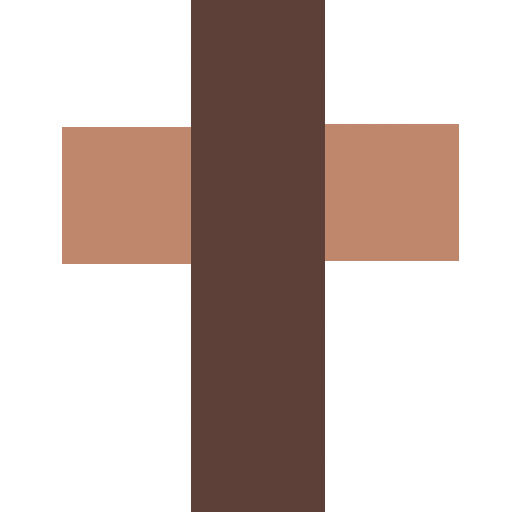
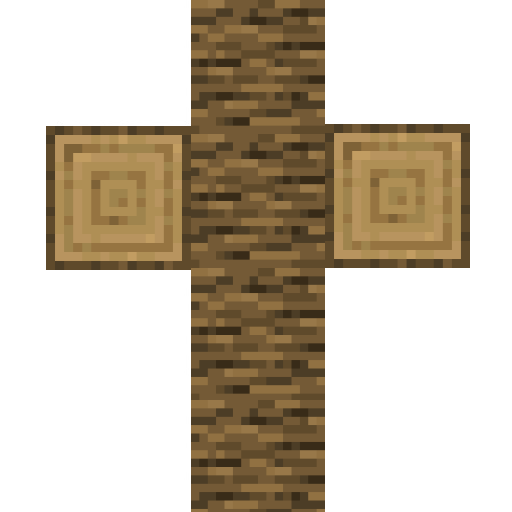
1.13 Texture Updated

Changed region(s): [[0.0625, 0.0, 0.9375, 1.0]]

diff --git a/main.py b/main.py
@@ -8,14 +8,14 @@ from ursina.shaders import lit_with_shadows_shader
 app = Ursina()
 
 sky = load_texture("block images/sky.png")
-dirt = load_texture("block images/dirt.png")
-sand = load_texture("block images/sand.png")
-stone = load_texture("block images/stone.png")
+dirt = load_texture("assets/dirtblock.png")
+sand = load_texture("assets/sand.png")
+stone = load_texture("assets/stone.png")
 grassblock = load_texture("assets/grassblock.png")
 log = load_texture("assets/log.png")
 planks = load_texture("assets/planks.png")
 arm = load_texture("assets/alt.png")
-ice = load_texture("block images/ice.png")
+cobble = load_texture("assets/cobbler.png")
 punch_sound   = Audio('assets/punch_sound',loop = False, autoplay = False)
 block_pick = 1
 
@@ -57,12 +57,12 @@ class Voxel(Button):
 			if key == 'right mouse down':
 				punch_sound.play()
 				if block_pick == 1: voxel = Voxel(position = self.position + mouse.normal, texture = grassblock)
-				if block_pick == 2: voxel = Voxel(position = self.position + mouse.normal, texture = stone)
-				if block_pick == 3: voxel = Voxel(position = self.position + mouse.normal, texture = dirt)
-				if block_pick == 4: voxel = Voxel(position = self.position + mouse.normal, texture = sand)
-				if block_pick == 5: voxel = Voxel(position = self.position + mouse.normal, texture = log)
-				if block_pick == 6: voxel = Voxel(position = self.position + mouse.normal, texture = planks)
-				if block_pick == 7: voxel = Voxel(position = self.position + mouse.normal, texture = ice)
+				if block_pick == 2: voxel = Voxel(position = self.position + mouse.normal, texture = dirt)
+				if block_pick == 3: voxel = Voxel(position = self.position + mouse.normal, texture = stone)
+				if block_pick == 4: voxel = Voxel(position = self.position + mouse.normal, texture = cobble)
+				if block_pick == 5: voxel = Voxel(position = self.position + mouse.normal, texture = sand)
+				if block_pick == 6: voxel = Voxel(position = self.position + mouse.normal, texture = log)
+				if block_pick == 7: voxel = Voxel(position = self.position + mouse.normal, texture = planks)
 
 			if key == 'left mouse down':
 				punch_sound.play()

diff --git a/README.md b/README.md
@@ -3,7 +3,7 @@
 ViCraft is a Minecraft clone updated from PyCraft
 It has been compressed and reduced many blocks.
 Now it is more lightweight and for better performance, we have reduced the size of the world.
-It has now from 7 block unlike PyCraft which had 14 blocks!
+It has now 7 blocks unlike PyCraft which had 14 blocks!
 
 # Blocks
 
@@ -13,7 +13,7 @@ It has now from 7 block unlike PyCraft which had 14 blocks!
 4 = Sandblock <br>
 5 = WoodLog <br>
 6 = Planks <br>
-7 = Ice <br>
+7 = Cobblestone <br>
 
 # UnChangable Bugs
 
